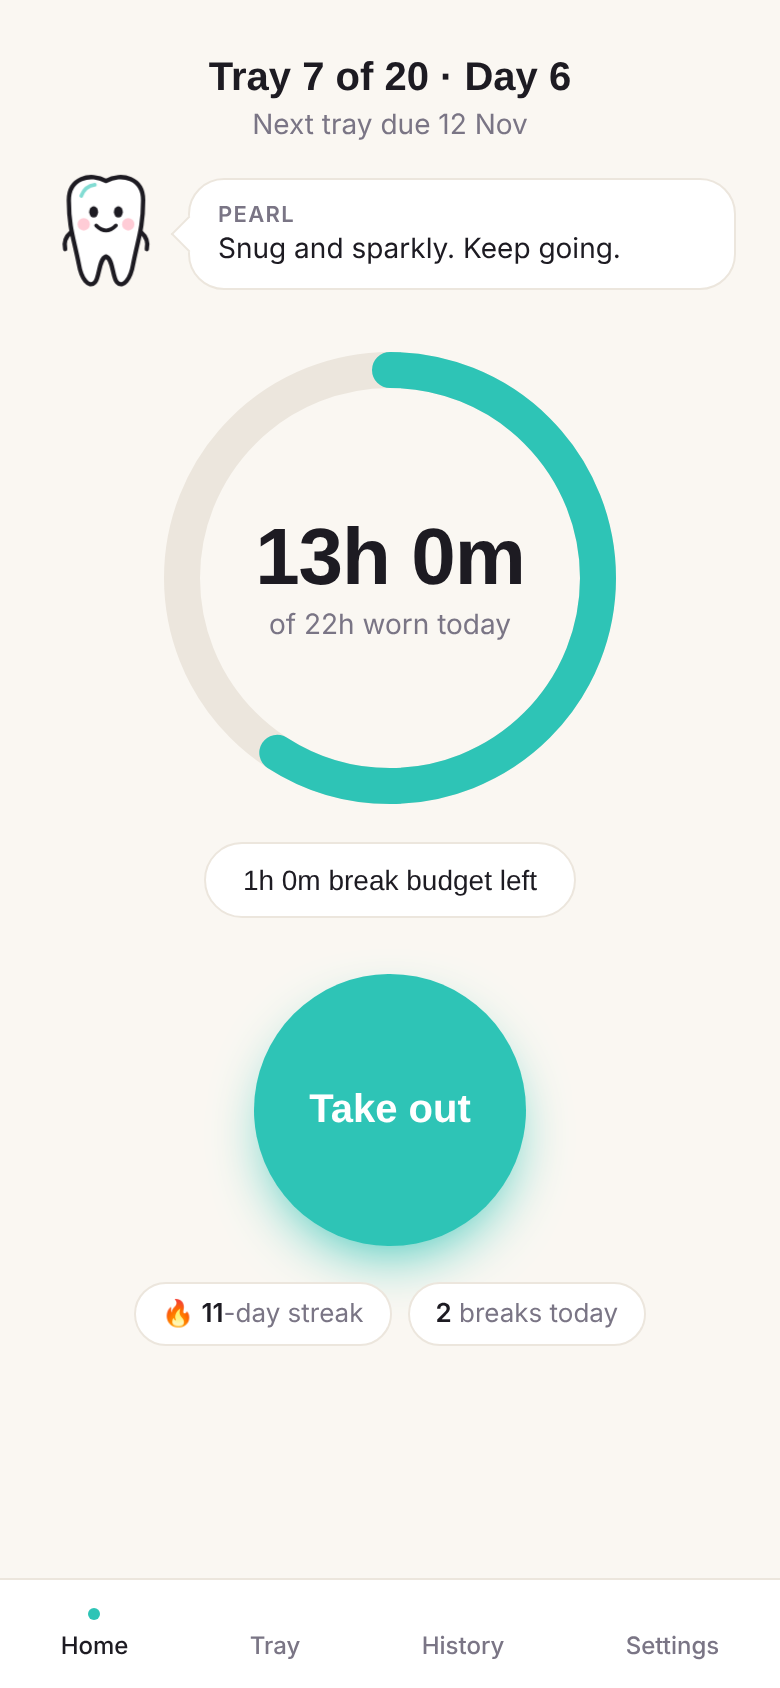
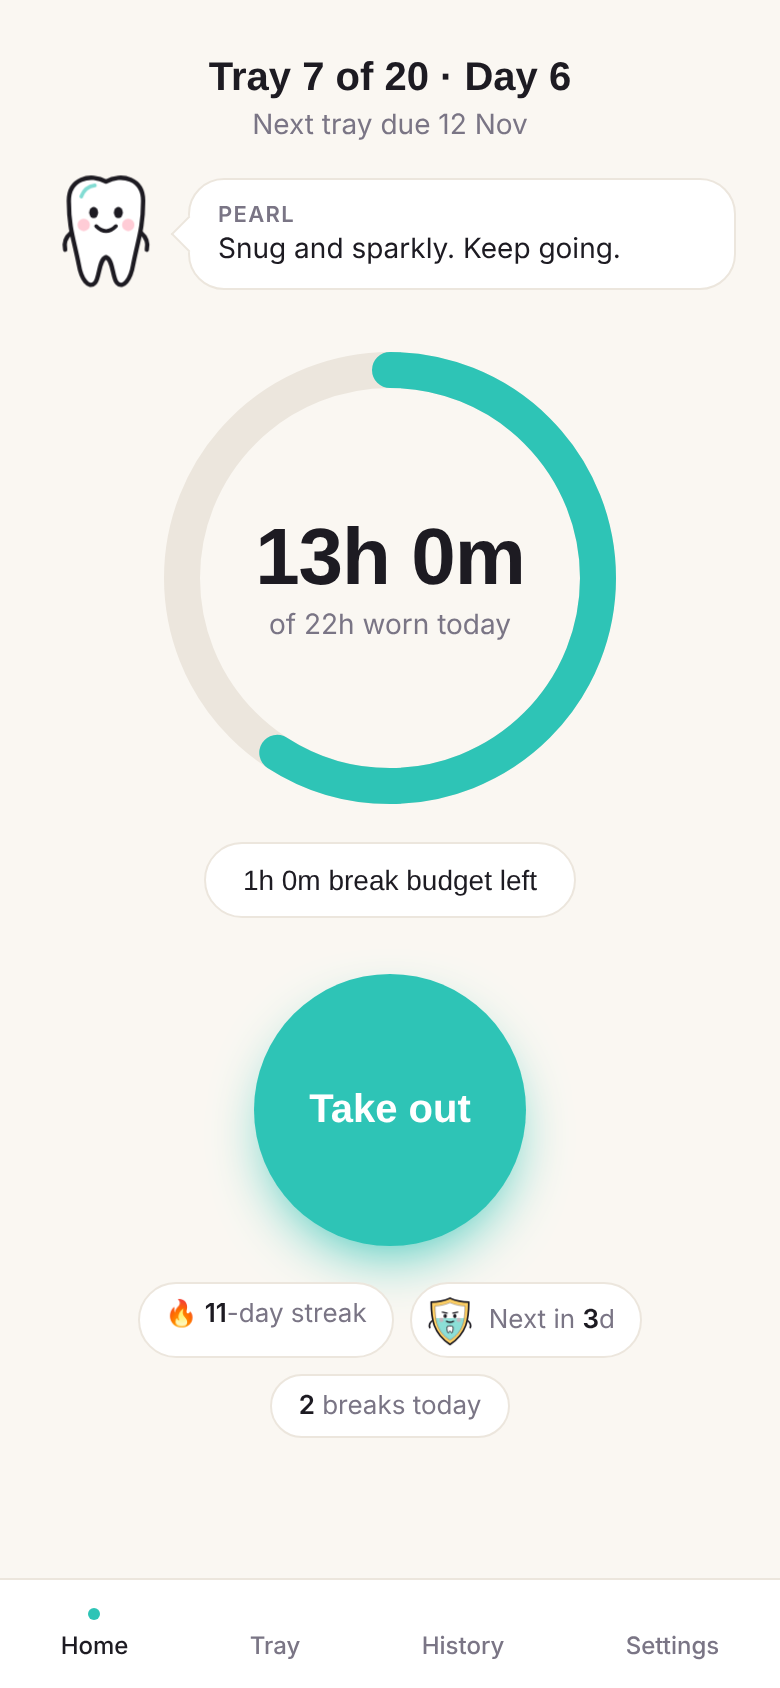
Refresh screenshots with Brace; fix shield legend wrapping
- Re-shot Home, Tray, History and Setup from the current app (generic demo data)
- New Brace screenshot added to the README
- Legend: mini Brace now sits inline with 'Shield used'

Claude-Session: https://claude.ai/code/session_01UyWaGi1AUHmmiz4DfKTwSH

diff --git a/src/Index.html b/src/Index.html
@@ -93,7 +93,7 @@
   .rules{ text-align:left; font-size:13px; color:var(--muted); line-height:1.5; margin:0 4px 16px; padding-left:18px; }
   .cell .sh svg{ width:16px; height:17px; display:block; }
   .legend span{ white-space:nowrap; }
-  .legend .mini svg{ width:13px; height:14px; vertical-align:-2px; margin-right:4px; }
+  .legend .mini svg{ display:inline-block; width:13px; height:14px; vertical-align:-2px; margin-right:4px; }
 
   /* Journey map */
   #journey > svg{ width:100%; height:auto; display:block; overflow:visible; }

diff --git a/README.md b/README.md
@@ -9,6 +9,7 @@ It runs entirely on **your own Google account**: a Google Sheet is the database,
   <img src="docs/screenshots/home.png" width="190" alt="Home: wear ring and Out/In button">
   <img src="docs/screenshots/tray.png" width="190" alt="Tray: journey map">
   <img src="docs/screenshots/history.png" width="190" alt="History: heatmap and breaks">
+  <img src="docs/screenshots/brace.png" width="190" alt="Brace: shield progress">
 </p>
 
 ## Features
